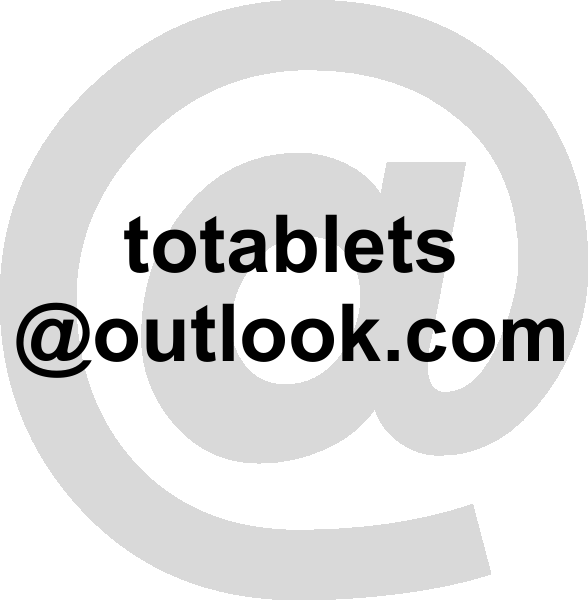
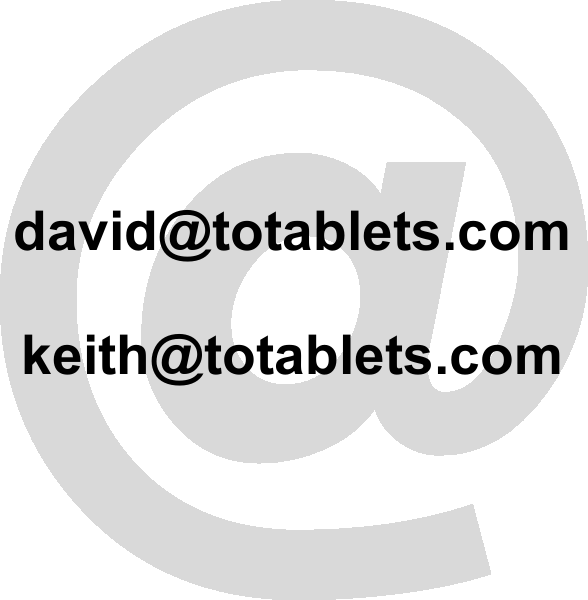
update website's contact info with info@totablets.com; make revenue split more ambiguous; available on the App Store tag for website; fix time stamp on admin access; added paginate to admin access

Changed region(s): [[0.0306, 0.48, 0.9796, 0.66], [0.0306, 0.33, 0.9796, 0.48]]

diff --git a/app/controllers/admin_accesses_controller.rb b/app/controllers/admin_accesses_controller.rb
@@ -2,6 +2,13 @@ class AdminAccessesController < ApplicationController
 	http_basic_authenticate_with :name => ENV['ADMIN_NAME'], :password => ENV['ADMIN_PASSWORD']
 	
 	def index
-		@admin_accesses = AdminAccess.order("created_at DESC")
+		@admin_accesses = AdminAccess.order("created_at DESC").paginate(page: params[:page], :per_page => 25)
+		@time_differences = {
+			"PST" => 0,
+			"MST" => 1,
+			"CST" => 2,
+			"EST" => 3
+		}
+		Time.zone = "Pacific Time (US & Canada)"
 	end
 end

diff --git a/app/controllers/rentals_controller.rb b/app/controllers/rentals_controller.rb
@@ -23,7 +23,7 @@ class RentalsController < ApplicationController
 
 	def location_info
 		device = Device.find_by_name(params[:ipad_name])
-		device = Device.first if device.nil?
+		device = Device.first(:order => "RANDOM()") if device.nil?
 		location = device.location
 		taxes = {}
 		location.taxes.each { |tax| taxes[tax.name] = tax.rate }
